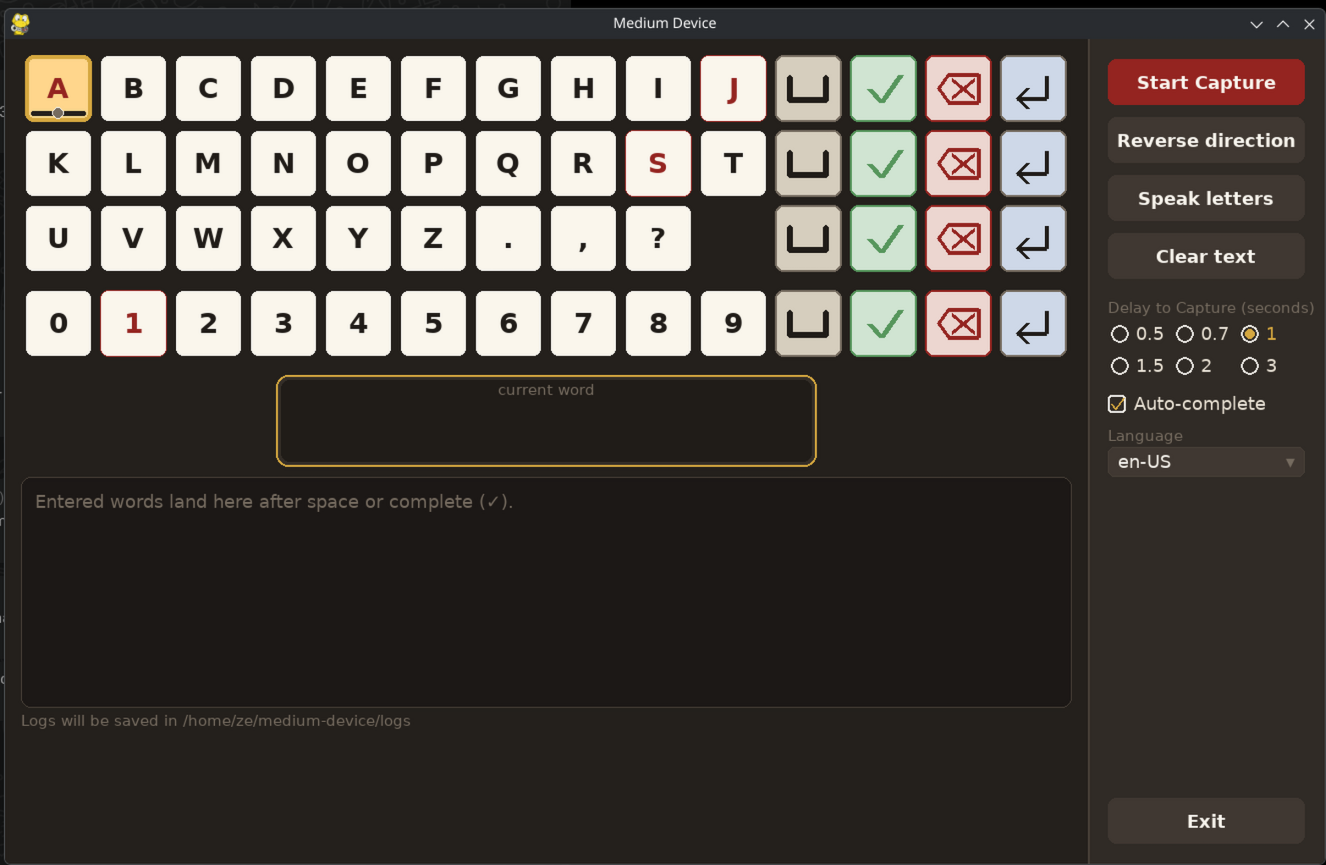
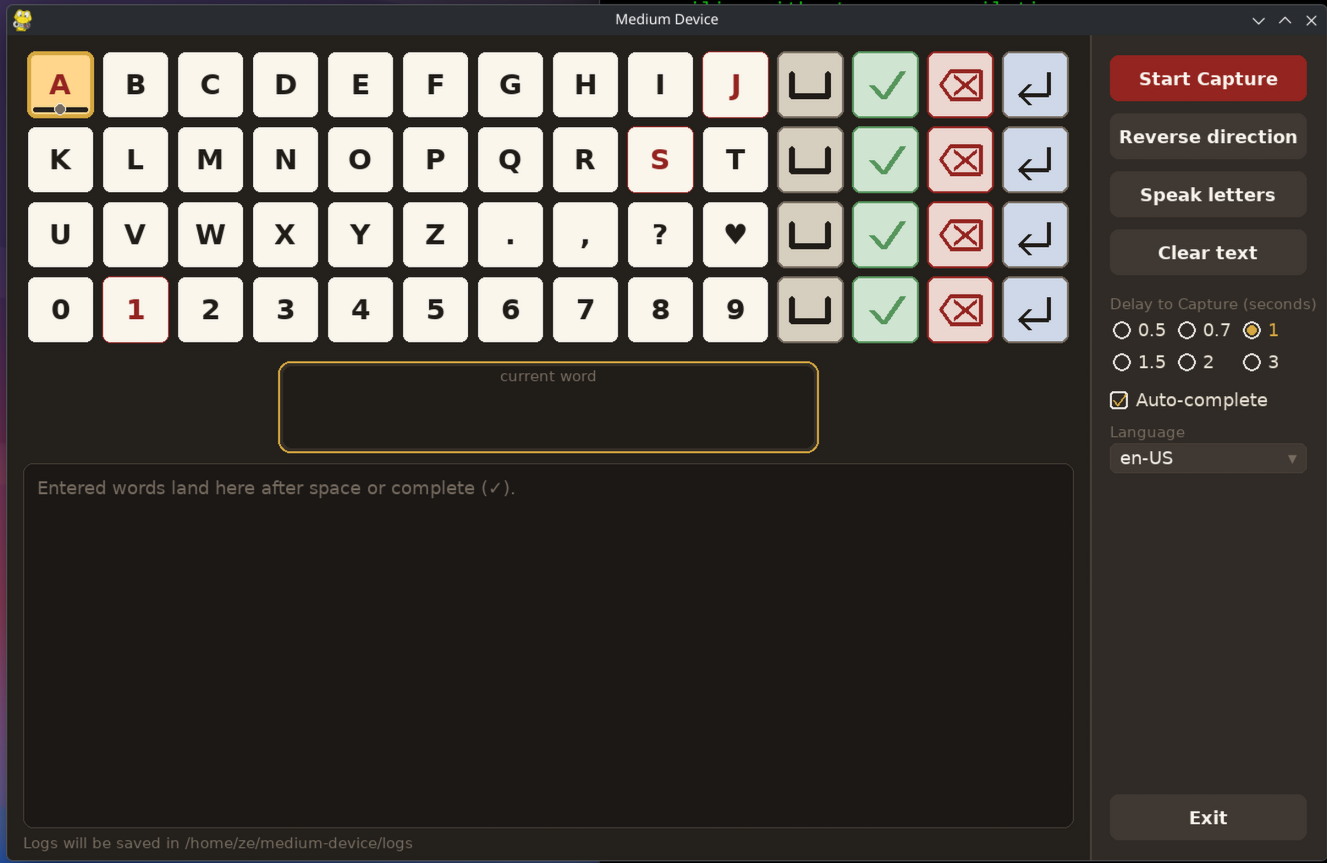
UI improvements

diff --git a/host/capture.py b/host/capture.py
@@ -1776,31 +1776,29 @@ class LinearCaptureGui:
         content_w = w - panel_w
         word_h = 92
         log_h = 22
-        text_h = max(160, int(h * 0.28))
-        footer = word_h + text_h + log_h + 28
+        # Reserve a floor for the transcript so the letter grid cannot eat it.
+        # After the grid is placed, the box itself stretches to the log line.
+        text_min_h = max(160, int(h * 0.28))
+        footer = word_h + text_min_h + log_h + 28
         top = 10
         grid_w = content_w - 40
         grid_h = max(120, h - top - footer)
         n_rows = len(GRID_ROWS)
-        n_letter_rows = len(LETTER_ROWS)
         gap_frac = 0.12
         fit_w = ROW_CELLS + gap_frac * (ROW_CELLS - 1)
         fit_h = n_rows + gap_frac * (n_rows - 1)
-        cell = min(grid_w / fit_w, (grid_h - 12) / fit_h)
+        cell = min(grid_w / fit_w, grid_h / fit_h)
         self.cell = max(40, int(cell))
         self.gap = max(6, int(self.cell * gap_frac))
         pitch = self.cell + self.gap
         total_w = ROW_CELLS * self.cell + (ROW_CELLS - 1) * self.gap
-        total_h = n_rows * self.cell + (n_rows - 1) * self.gap + 12
         ox = 20 + max(0, (grid_w - total_w) // 2)
         oy = top + 6
         self.grid_origin = (ox, oy)
 
         self.cell_rects = []
         y = oy
-        for ri, row in enumerate(GRID_ROWS):
-            if ri == n_letter_rows:
-                y += 10
+        for row in GRID_ROWS:
             x = ox
             for ch in row:
                 if ch is not None:
@@ -1813,12 +1811,12 @@ class LinearCaptureGui:
         self.word_box = pygame.Rect(0, 0, ww, word_h)
         self.word_box.centerx = content_w // 2
         self.word_box.y = grid_bottom + 10
-        self.text_box = pygame.Rect(
-            16, self.word_box.bottom + 10, content_w - 32, text_h
-        )
         self.log_label_rect = pygame.Rect(
-            16, min(h - log_h - 4, self.text_box.bottom + 4), content_w - 32, log_h
+            16, h - log_h - 4, content_w - 32, log_h
         )
+        text_top = self.word_box.bottom + 10
+        text_h = max(24, self.log_label_rect.y - 6 - text_top)
+        self.text_box = pygame.Rect(16, text_top, content_w - 32, text_h)
 
         # Right-side vertical control panel: buttons stacked top to bottom,
         # then the Hold delay picker below them.
